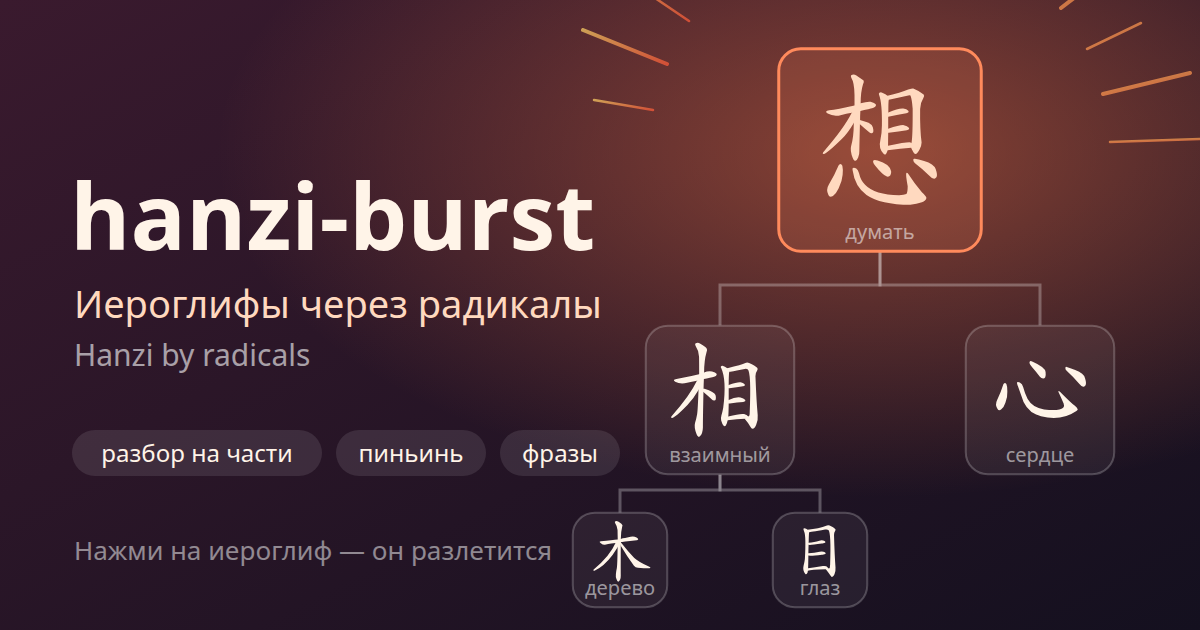
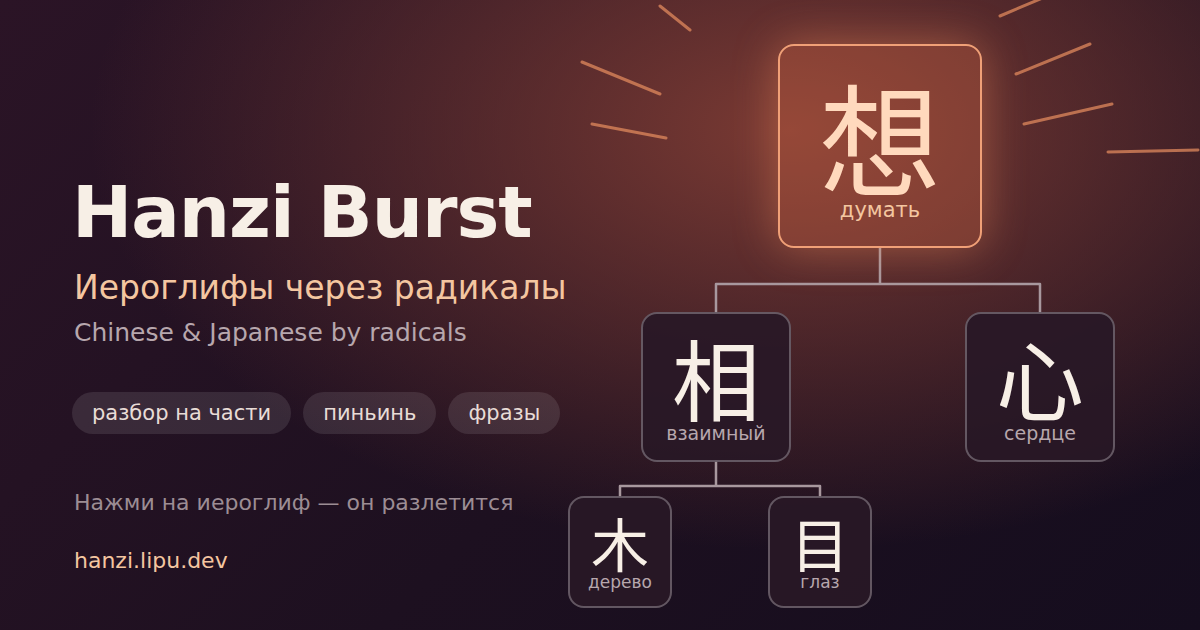
og.png: Hanzi Burst brand, mention Japanese; og:url on /extension; ignore .wrangler (#41)

diff --git a/scripts/og.html b/scripts/og.html
@@ -1,0 +1,47 @@
+<!doctype html>
+<!-- Source of site/og.png. Render:
+     google-chrome --headless=new --hide-scrollbars --window-size=1200,630 --user-data-dir=$(mktemp -d) \
+       --screenshot=site/og.png "file://$PWD/scripts/og.html" -->
+<html lang="ru"><head><meta charset="utf-8"><style>
+  * { box-sizing: border-box; }
+  body { margin: 0; width: 1200px; height: 630px; overflow: hidden; position: relative; color: #f7efe6;
+    font-family: 'DejaVu Sans', sans-serif;
+    background: radial-gradient(ellipse 700px 420px at 790px 130px, #7a3a33 0%, rgba(122,58,51,0) 100%),
+      linear-gradient(135deg, #2b1426 0%, #1d1020 55%, #150d1e 100%); }
+  svg { position: absolute; inset: 0; }
+  .title { position: absolute; left: 72px; top: 170px; margin: 0; font-size: 72px; font-weight: 700; letter-spacing: -1px; white-space: nowrap; }
+  .ru { position: absolute; left: 74px; top: 268px; margin: 0; font-size: 33px; color: #f4c6a0; }
+  .en { position: absolute; left: 74px; top: 318px; margin: 0; font-size: 25px; color: #b7a7ad; }
+  .chips { position: absolute; left: 72px; top: 392px; display: flex; gap: 12px; }
+  .chips span { padding: 9px 20px; border-radius: 999px; background: rgba(255,255,255,.1); font-size: 21px; color: #e8dcd6; }
+  .hint { position: absolute; left: 74px; top: 490px; margin: 0; font-size: 22px; color: #9c8d94; }
+  .url { position: absolute; left: 74px; top: 548px; margin: 0; font-size: 22px; color: #f4c6a0; }
+  .n { position: absolute; display: flex; flex-direction: column; align-items: center; justify-content: center; border-radius: 16px;
+    background: rgba(40,24,38,.92); border: 2px solid rgba(255,255,255,.28); }
+  .n b { font-family: 'Noto Sans CJK SC', sans-serif; font-weight: 400; line-height: 1.05; }
+  .n i { font-style: normal; color: #b7a7ad; }
+  .root { left: 778px; top: 44px; width: 204px; height: 204px; background: rgba(214,106,70,.3); border-color: #f0a077; box-shadow: 0 0 44px rgba(240,140,90,.45); }
+  .root b { font-size: 122px; color: #ffd9bd; } .root i { font-size: 21px; color: #f4c6a0; }
+  .mid { width: 150px; height: 150px; } .mid b { font-size: 88px; } .mid i { font-size: 19px; }
+  .low { width: 104px; height: 112px; } .low b { font-size: 58px; } .low i { font-size: 17px; }
+</style></head><body>
+  <svg width="1200" height="630" fill="none" stroke-linecap="round">
+    <g stroke="#e08a5e" stroke-width="3" opacity=".75">
+      <path d="M582 62 660 94M592 124 666 138M660 6 690 30M1016 74 1090 44M1024 124 1112 104M1108 152 1198 150M1000 16 1052 -6"/>
+    </g>
+    <g stroke="#a8989e" stroke-width="2.5">
+      <path d="M880 248V284M716 284H1040M716 284V312M1040 284V312M716 462V486M620 486H820M620 486V496M820 486V496"/>
+    </g>
+  </svg>
+  <h1 class="title">Hanzi Burst</h1>
+  <p class="ru">Иероглифы через радикалы</p>
+  <p class="en">Chinese &amp; Japanese by radicals</p>
+  <div class="chips"><span>разбор на части</span><span>пиньинь</span><span>фразы</span></div>
+  <p class="hint">Нажми на иероглиф — он разлетится</p>
+  <p class="url">hanzi.lipu.dev</p>
+  <div class="n root"><b>想</b><i>думать</i></div>
+  <div class="n mid" style="left:641px;top:312px"><b>相</b><i>взаимный</i></div>
+  <div class="n mid" style="left:965px;top:312px"><b>心</b><i>сердце</i></div>
+  <div class="n low" style="left:568px;top:496px"><b>木</b><i>дерево</i></div>
+  <div class="n low" style="left:768px;top:496px"><b>目</b><i>глаз</i></div>
+</body></html>

diff --git a/site/extension.html b/site/extension.html
@@ -3,7 +3,7 @@
 <title>Hanzi Burst — китайско-японский словарь при наведении, расширение для Chrome</title>
 <meta id="desc" name="description" content="Расширение Hanzi Burst: наведите курсор на китайский иероглиф на любой странице и увидите значение, пиньинь и полный разбор на части. Работает офлайн.">
 <link rel="canonical" href="https://hanzi.lipu.dev/extension">
-<meta property="og:title" content="Hanzi Burst — Chinese &amp; Japanese popup dictionary for Chrome"><meta property="og:image" content="https://hanzi.lipu.dev/og.png">
+<meta property="og:url" content="https://hanzi.lipu.dev/extension"><meta property="og:title" content="Hanzi Burst — Chinese &amp; Japanese popup dictionary for Chrome"><meta property="og:image" content="https://hanzi.lipu.dev/og.png">
 <style>
 :root{--bg:#faf7f2;--fg:#1f1b16;--muted:#6b6257;--accent:#c8402a;--line:#cfc6b6;--soft:#e6dfd3;--card:#fff}
 @media(prefers-color-scheme:dark){:root{--bg:#17140f;--on:#17140f;--fg:#f1ebe0;--muted:#a59c8e;--accent:#ff7a5c;--line:#5a5144;--soft:#352f25;--card:#221e17}}
